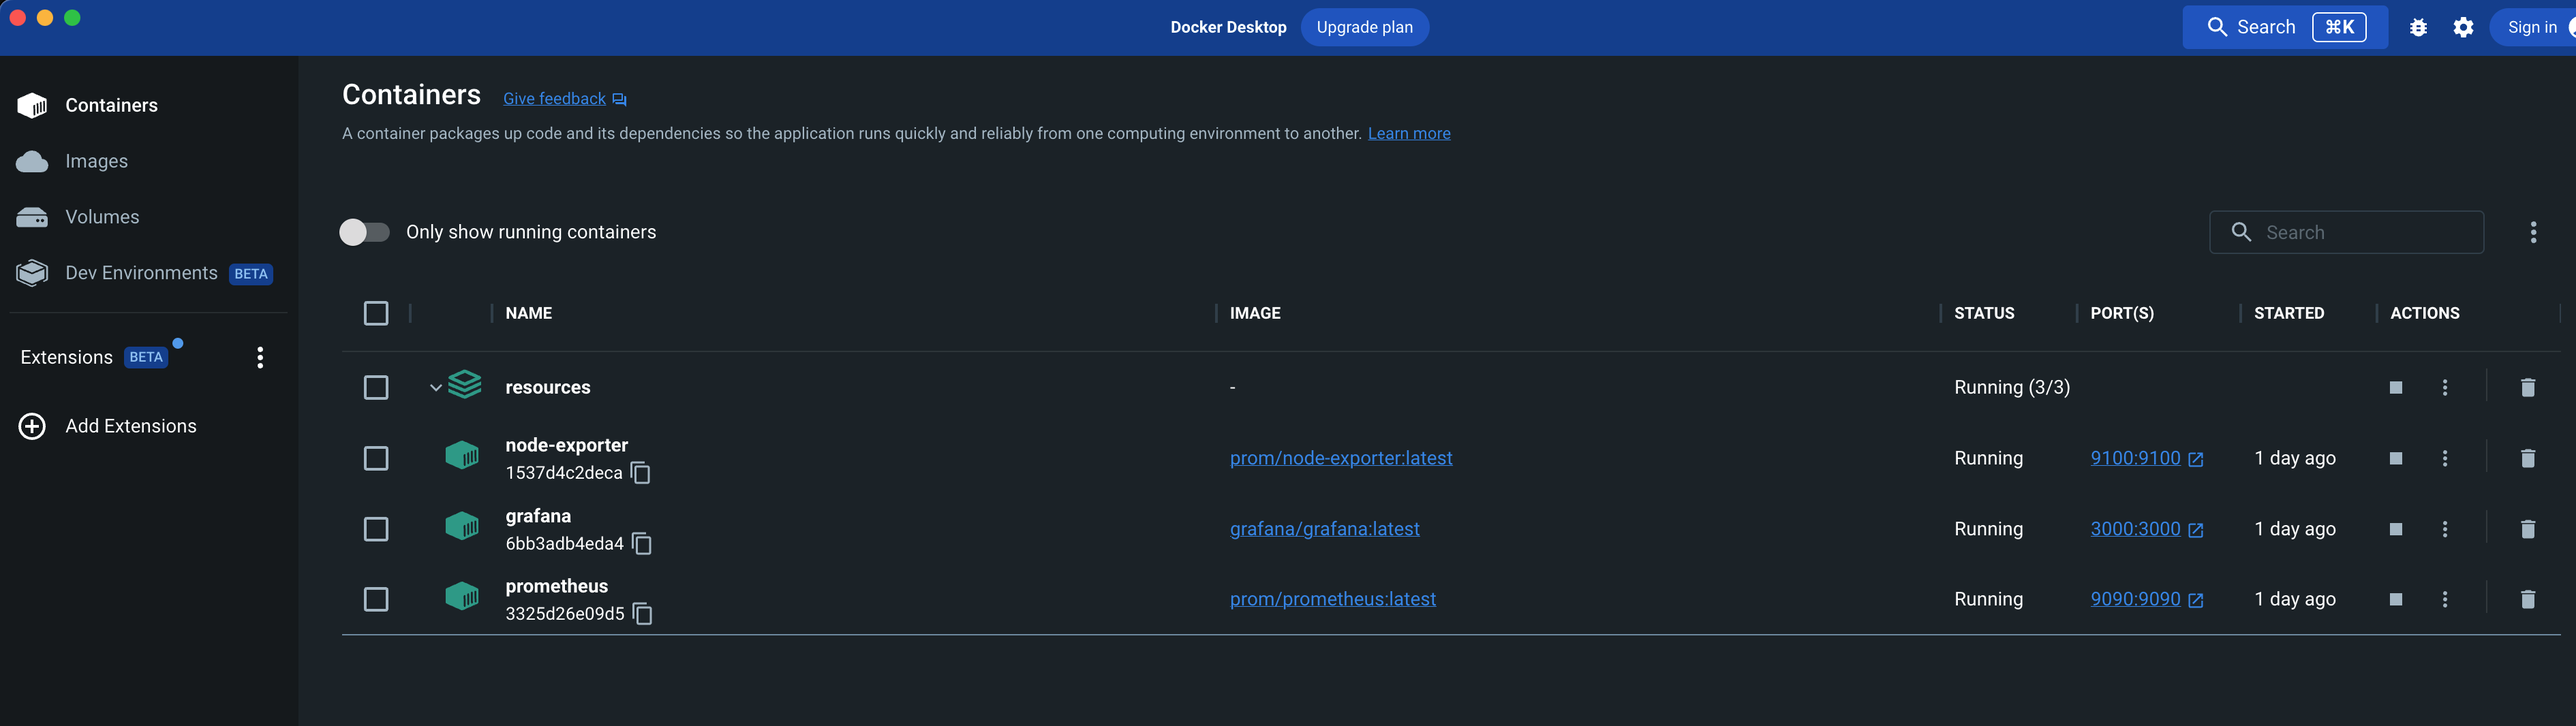
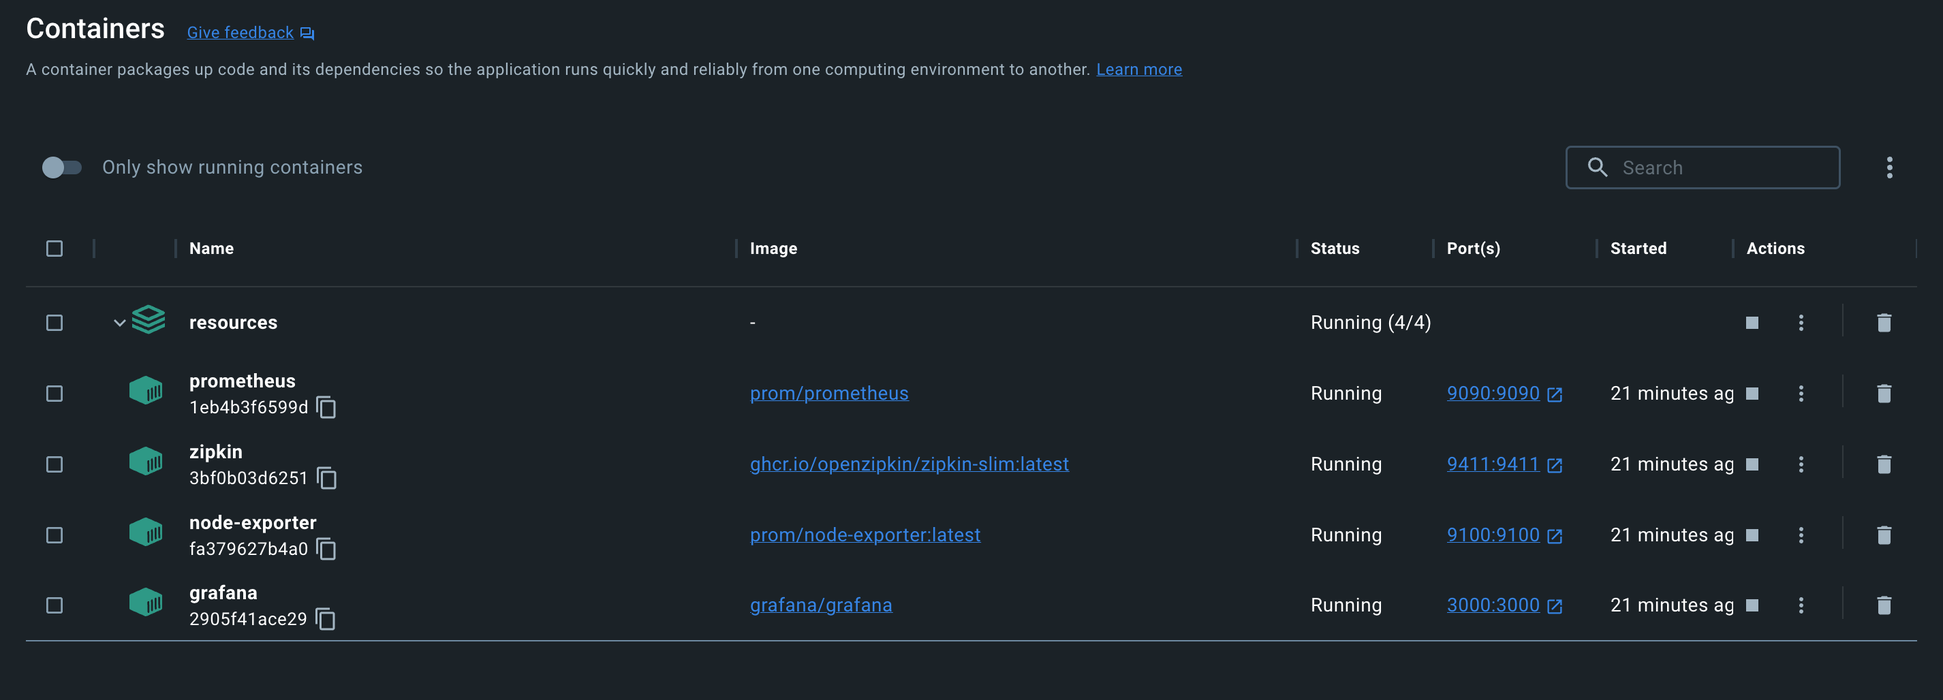
Added zipkin configuration Updated readme file Minor refactor code

diff --git a/src/main/kotlin/com/example/kotlinmvc/KotlinMvcApplication.kt b/src/main/kotlin/com/example/kotlinmvc/KotlinMvcApplication.kt
@@ -31,7 +31,7 @@ class GlobalExceptionHandler {
     private val logger = KotlinLogging.logger {}
 
 
-    @ResponseStatus(value = HttpStatus.INTERNAL_SERVER_ERROR, reason = "Customer could not be found!")
+    @ResponseStatus(value = HttpStatus.INTERNAL_SERVER_ERROR, reason = "Internal Server Error")
     @ExceptionHandler(RuntimeException::class)
     fun customerNotFound(exception: RuntimeException) {
         logger.error (exception){ "Exception" }
@@ -47,81 +47,25 @@ class MyConfig {
     fun otpCounterKo(registry: MeterRegistry): Counter = registry.counter("otp_ko")
 }
 
-// data classes
-
-@Entity
-data class MessageModel(
-    @Id @GeneratedValue var id: Long? = null,
-    @Column(nullable = false)
-    val text: String = ""
-)
-
-data class MessageOut(
-    @field:Schema(description = "message id", example = "2")
-    val id: Long,
-    @field:Schema(description = "text ", minLength = 1, maxLength = 100, example = "ppp")
-    val text: String
-)
-
-data class MessageCreate(
-    @field:Schema(description = "text ", minLength = 1, maxLength = 100, example = "ppp")
-    val text: String?
-)
-
-// layer's mappers
-
-fun MessageCreate.convertToMessageModel() = MessageModel(
-    text = this.text?.uppercase() ?: "emptyText"
-)
-
-fun MessageModel.covertToMessage() = MessageOut(
-    id = this.id ?: -1,
-    text = this.text
-)
 
 // controller
 
 @RestController
 @RequestMapping("/message")
-class MessageController(val messageService: MessageService, val meterRegistry: MeterRegistry, val otpCounterOk: Counter,val otpCounterKo: Counter ) {
-
-
+class MessageController(val meterRegistry: MeterRegistry, val otpCounterOk: Counter,val otpCounterKo: Counter ) {
 
     private val logger = KotlinLogging.logger {}
 
-    @Operation(summary = "Get all messages - exclude result if excludedText is provided")
-    @ApiResponses(
-        value = [
-            ApiResponse(
-                responseCode = "200", description = "Get all messages", content = [
-                    (Content(
-                        mediaType = "application/json", array = (
-                                ArraySchema(schema = Schema(implementation = MessageOut::class)))
-                    ))]
-            ),
-            ApiResponse(responseCode = "400", description = "bad request", content = [Content()]),
-            ApiResponse(responseCode = "404", description = "not found", content = [Content()])]
-    )
-    @GetMapping
-    fun findAll(
-        @Parameter(description = "Get all messages do not include the text")
-        @RequestParam excludeText: String?
-    ): List<MessageOut> {
-        return messageService.findAll(excludeText)
-    }
-
-
     @GetMapping( "/ok")
-    fun otpOk(
-    ): String {
-        logger.info { "pasa ok otp 2" }
+    fun otpOk(): String {
+        logger.info { "Otp ok" }
         otpCounterOk.increment()
         return  otpCounterOk.count().toString()
     }
     @GetMapping( "/ko")
     fun otpFail(
     ): String {
-        logger.info { "pasa ok" }
+        logger.info { "Otp ko" }
         otpCounterKo.increment()
         return  otpCounterKo.count().toString()
     }
@@ -130,63 +74,10 @@ class MessageController(val messageService: MessageService, val meterRegistry: M
     @GetMapping( "/exception")
     fun exception(
     ): String {
-        logger.info { "pasa exception" }
-        throw NullPointerException("peteee")
+        logger.info { "Otp Exception" }
+        throw NullPointerException("crash")
         return  otpCounterKo.count().toString()
     }
-
-
-    @Operation(summary = "Create a messageOut")
-    @ApiResponses(
-        value = [
-            ApiResponse(
-                responseCode = "200",
-                description = "Create a message",
-                content = [Content(mediaType = "application/json", schema = Schema(implementation = MessageOut::class))]
-            ),
-            ApiResponse(responseCode = "400", description = "bad request", content = [Content()]),
-            ApiResponse(responseCode = "404", description = "not found", content = [Content()])]
-    )
-    @PostMapping
-    fun save(@RequestBody messageCreate: MessageCreate): MessageOut = messageService.save(messageCreate)
-
-}
-
-// service
-
-interface MessageService {
-    fun save(messageOut: MessageCreate): MessageOut
-    fun findAll(excludeText: String?): List<MessageOut>
-}
-
-
-@Service
-class MessageServiceImpl(val messageRepository: MessageRepository) : MessageService {
-
-    override fun save(messageCreate: MessageCreate): MessageOut {
-        val save = messageRepository.save(messageCreate.convertToMessageModel())
-        return save.covertToMessage()
-    }
-
-    override fun findAll(excludeText: String?): List<MessageOut> {
-
-        // same behaviour using kotlin's nullability features let and elvis operator
-        // return excludeText?.let { text -> messageRepository.findByTextNot(text).map { it.covertToMessage() } }
-        //     ?:  messageRepository.findAll().map { it.covertToMessage() }
-
-        return if (excludeText != null) {
-            messageRepository.findByTextNot(excludeText).map { it.covertToMessage() }
-        } else {
-            messageRepository.findAll().map { it.covertToMessage() }
-        }
-    }
-
-}
-
-// repository
-@Repository
-interface MessageRepository : JpaRepository<MessageModel, Long> {
-    fun findByTextNot(text: String): List<MessageModel>
 }
 
 
